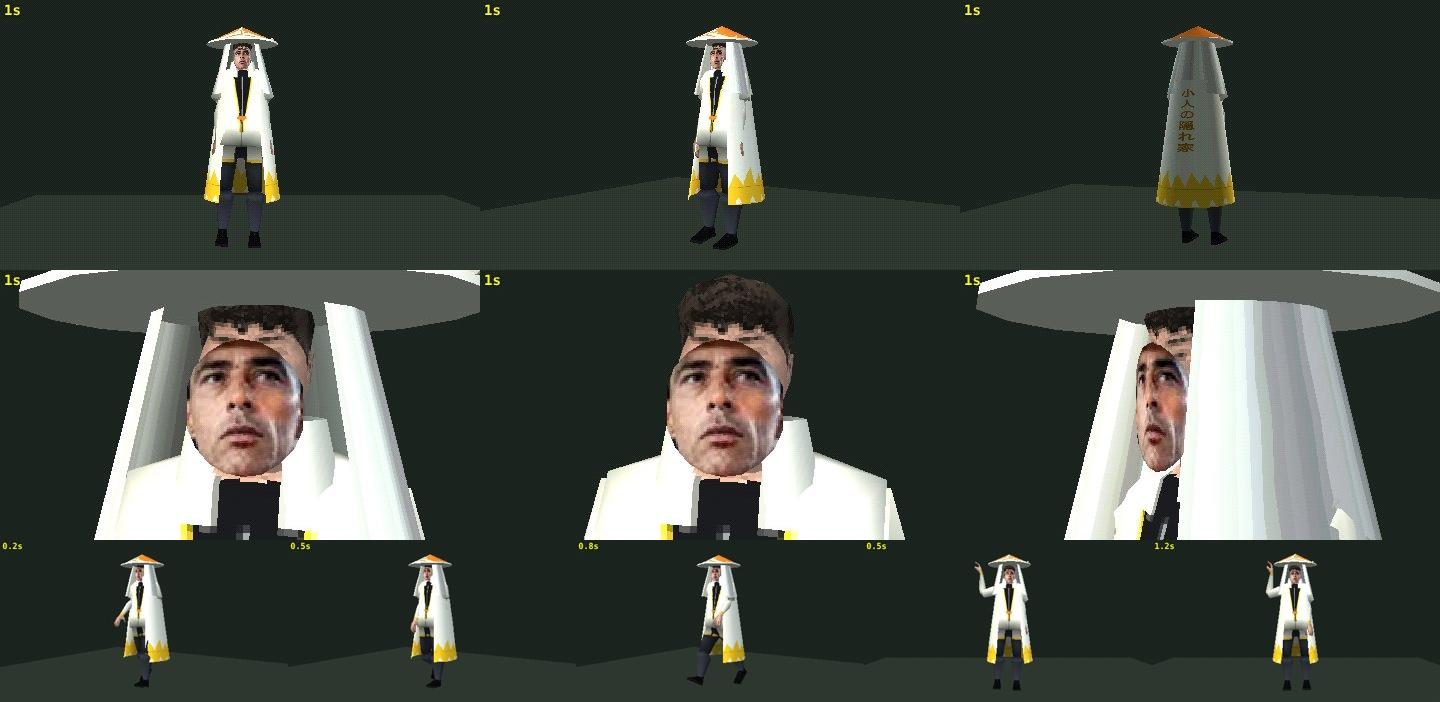
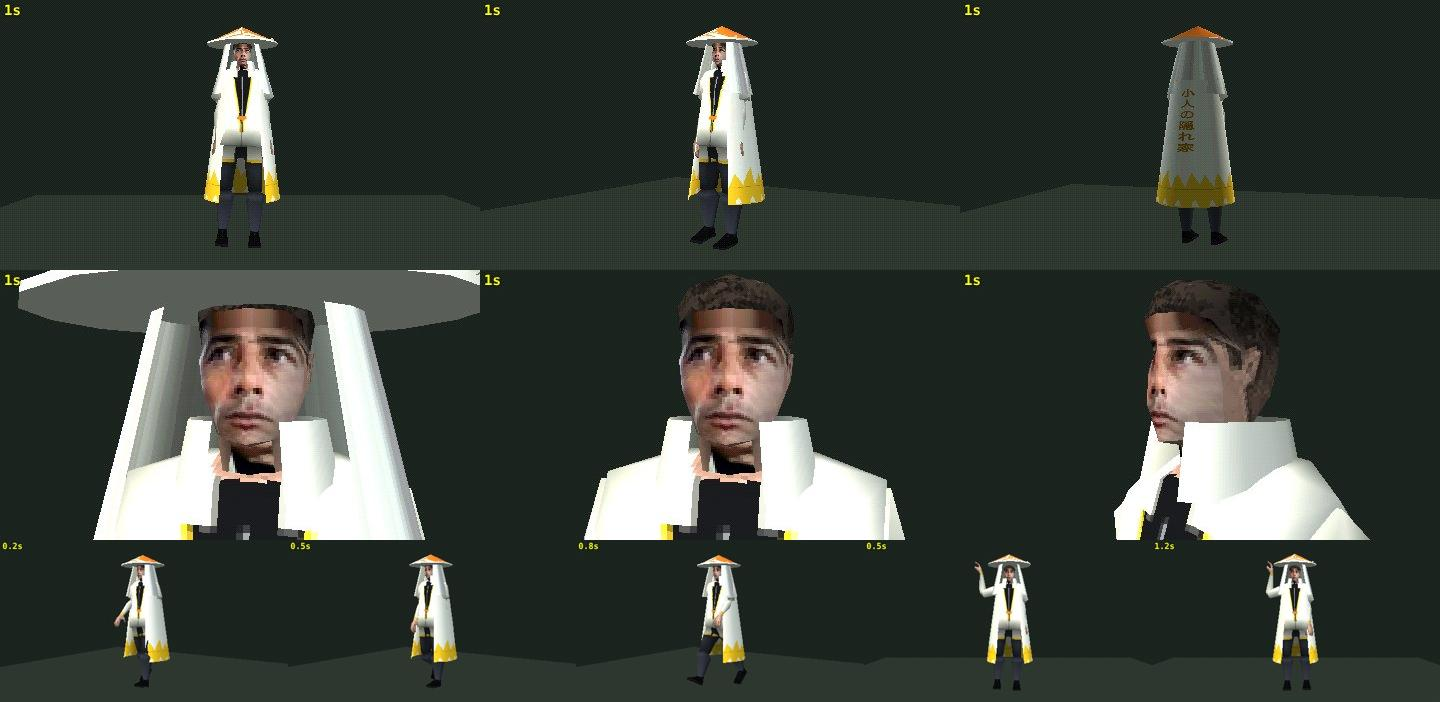
Dom: cara da cabeça do elenco trocada pela foto na própria malha (sem placa, sem vão); piscada e boca no canvas
Claude-Session: https://claude.ai/code/session_01PVUNKmUDvaP2jpRAvnz1fM

diff --git a/lib/tgp.js b/lib/tgp.js
@@ -401,7 +401,24 @@ export async function acessoriosDom(A, o = {}) {
   const cab = A.osso('spine.005'); let topo = new THREE.Box3().setFromObject(A.obj).max.y, c = cab.getWorldPosition(new THREE.Vector3());
   // "Frankenstein": a cabeça do corpo do elenco some e entra a cabeça da FOTO (a do primeiro modelo), presa ao mesmo osso
   let rosto = null;
-  const malhaCab = o.cabecaOriginal ? null : A.malhas.find(m => /head/i.test(m.name) && m.isSkinnedMesh);
+  // PADRÃO: a cara da cabeça do elenco foi trocada pela foto NA PRÓPRIA MALHA (tools/blender/rosto_foto.py: objeto "rosto", mesmas bordas
+  // da cabeça, sem vão). Aqui só liga a piscada e a boca, redesenhando a foto num canvas.
+  const malhaRosto = A.malhas.find(m => /rosto/i.test(m.name));
+  if (malhaRosto && !o.cabeca) {
+    const foto = await M.imagem('material/dom/rosto_alinhado.png'), K = .25, TW = 240, TH = 300;
+    const cv = document.createElement('canvas'); cv.width = TW; cv.height = TH; const cx = cv.getContext('2d', { willReadFrequently: true });
+    cx.filter = 'contrast(1.15) saturate(1.08)'; cx.drawImage(foto, 0, 0, TW, TH); cx.filter = 'none';
+    const base = cx.getImageData(0, 0, TW, TH); for (let i = 0; i < base.data.length; i += 4) for (let k = 0; k < 3; k++) base.data[i + k] = Math.round(Math.round(base.data[i + k] / 255 * 31) / 31 * 255);
+    cx.putImageData(base, 0, 0);
+    const tex = new THREE.CanvasTexture(cv); tex.flipY = false; tex.magFilter = tex.minFilter = THREE.NearestFilter; tex.generateMipmaps = false; tex.colorSpace = THREE.NoColorSpace;
+    const mt = [].concat(malhaRosto.material)[0]; if (mt.uniforms?.uMapa) { mt.uniforms.uMapa.value = tex; mt.uniforms.uTemMapa && (mt.uniforms.uTemMapa.value = 1); }
+    rosto = { animar: (t, { boca = 0, pisca = 0 } = {}) => {
+      cx.putImageData(base, 0, 0);
+      if (pisca > .5) for (const ex of [435, 521]) { cx.fillStyle = '#8a5f48'; cx.fillRect(Math.round((ex - 13) * K), Math.round(372 * K), Math.round(26 * K), Math.round(11 * K)); }
+      const ab = Math.round(P.clamp(boca) * 3); if (ab > 0) { cx.fillStyle = '#241210'; cx.fillRect(Math.round(456 * K), Math.round(466 * K), Math.round(34 * K), ab); }
+      tex.needsUpdate = true; } };
+  }
+  const malhaCab = (o.cabecaOriginal || (malhaRosto && !o.cabeca)) ? null : A.malhas.find(m => /head/i.test(m.name) && m.isSkinnedMesh);
   if (malhaCab) {
     malhaCab.computeBoundingBox(); const bb = malhaCab.boundingBox.clone().applyMatrix4(malhaCab.matrixWorld), cen = bb.getCenter(new THREE.Vector3()), tam = bb.getSize(new THREE.Vector3());
     // padrão (escolha do diretor): a FRENTE da cabeça do primeiro modelo (cabelo da testa + rosto da foto); da linha das orelhas pra trás

diff --git a/tools/blender/rosto_foto.py b/tools/blender/rosto_foto.py
@@ -1,0 +1,46 @@
+"""Troca a CARA da cabeça do Simple PSX Character (JashiPSX) pela foto de uma pessoa, sem placa por cima:
+a região do rosto (frente da cabeça, do queixo à testa, entre as orelhas) vira um objeto à parte ("rosto"), com o mesmo
+esqueleto, e recebe a foto projetada de frente (UV planar) num material próprio. As bordas são as mesmas da cabeça: nada de vão.
+Uso: blender -b X.blend --python rosto_foto.py -- foto_alinhada.png saida.blend
+(foto alinhada como as do pintor: olhos em y=378.5, meio do rosto em x=478 — ver tools/pintar_jashi_vasco.py PX/PY)"""
+import bpy, bmesh, sys, os
+FOTO, OUT = sys.argv[sys.argv.index('--') + 1:]
+h = bpy.data.objects['head']; mw = h.matrix_world; inv = mw.inverted()
+Z0, Z1, XM = float(os.environ.get('RZ0', '1.69')), float(os.environ.get('RZ1', '1.965')), float(os.environ.get('RXM', '0.084'))
+# 1) seleciona as faces do rosto: de frente (normal pra -y), na faixa do queixo à testa, entre as orelhas
+bpy.context.view_layer.objects.active = h
+for o in bpy.context.selected_objects: o.select_set(False)
+h.select_set(True)
+bpy.ops.object.mode_set(mode='EDIT'); bm = bmesh.from_edit_mesh(h.data); bm.faces.ensure_lookup_table()
+nm = mw.to_3x3(); n_sel = 0
+for f in bm.faces:
+    c = mw @ f.calc_center_median(); n = (nm @ f.normal).normalized()
+    f.select = (Z0 < c.z < Z1 and abs(c.x) < XM and n.y < -0.25 and c.y < -0.03)
+    n_sel += f.select
+bmesh.update_edit_mesh(h.data); print('ROSTO faces:', n_sel)
+bpy.ops.mesh.separate(type='SELECTED'); bpy.ops.object.mode_set(mode='OBJECT')
+r = [o for o in bpy.data.objects if o.name.startswith('head') and o != h][0]; r.name = 'rosto'
+# 2) UV planar de frente, mapeando a posição 3D na foto alinhada (mesma conta do pintor: CZ 1,86, ESC 0,4 → 512 px)
+PY = [(242, 10), (290, 140), (360, 180), (378.5, 215), (422.5, 280), (465, 330), (530, 385), (600, 440)]
+def interp(pts, v):
+    pts = sorted(pts, key=lambda p: p[1])
+    for a, b in zip(pts, pts[1:]):
+        if a[1] <= v <= b[1]: return a[0] + (v - a[1]) * (b[0] - a[0]) / (b[1] - a[1])
+    a, b = (pts[0], pts[1]) if v < pts[0][1] else (pts[-2], pts[-1])
+    return a[0] + (v - a[1]) * (b[0] - a[0]) / (b[1] - a[1])
+img = bpy.data.images.load(os.path.abspath(FOTO)); img.pack(); FW, FH = img.size
+KX = float(os.environ.get('RKX', '0.92'))
+me = r.data; mwr = r.matrix_world; uvl = me.uv_layers.active
+for poly in me.polygons:
+    for li in poly.loop_indices:
+        w = mwr @ me.vertices[me.loops[li].vertex_index].co
+        mx = w.x / 0.4 * 512 + 256; my = (1.86 - w.z) / 0.4 * 512 + 256
+        fx = 478 - (mx - 256) * KX * 1.0      # x do modelo (+ = lado esquerdo do personagem) → foto (espelhado: a foto está de frente)
+        fy = max(float(os.environ.get('RFYMIN', '0')), interp(PY, my))   # trava acima: a testa repete a pele (não pega a aba do chapéu da foto)
+        uvl.data[li].uv = (fx / FW, 1 - fy / FH)
+# 3) material próprio com a foto (pixel duro, estilo PS1)
+mat = bpy.data.materials.new('rosto_foto'); mat.use_nodes = True
+nt = mat.node_tree; bsdf = nt.nodes.get('Principled BSDF'); tx = nt.nodes.new('ShaderNodeTexImage'); tx.image = img; tx.interpolation = 'Closest'
+nt.links.new(tx.outputs['Color'], bsdf.inputs['Base Color']); nt.nodes.active = tx
+me.materials.clear(); me.materials.append(mat)
+bpy.ops.wm.save_as_mainfile(filepath=os.path.abspath(OUT)); print('ROSTO OK', OUT)

diff --git a/material/producao/personagens/dom/LEIA.md b/material/producao/personagens/dom/LEIA.md
@@ -4,13 +4,14 @@
 - Textura: `ROUPA=dom CAB=40,34,30 CONTRASTE=1.3 QUENTE=1.0,0.95,0.9 python3 tools/pintar_jashi_vasco.py tris.json character_256.png material/dom/rosto_alinhado_olhos.png texturas/dom_512.png`
   (tris.json: todos os triângulos do modelo base com objeto e material, exportados pelo Blender).
   Casaco branco de manga comprida aberto em V, blusa preta de zíper, fivela laranja, gola alta, calça escura, sapato preto.
-- Montagem e animação: `ROSTO_PLANO=-0.10 CALCA=1 blender ... montar_jashi.py -- texturas/dom_512.png dom.blend` → `animar_jashi.py` → `exportar_glb.py`
+- Montagem e animação: `ROSTO_PLANO=-0.10 CALCA=1 blender ... montar_jashi.py -- texturas/dom_512.png dom.blend` → `rosto_foto.py` → `animar_jashi.py` → `exportar_glb.py`
   (10 animações: idle walk run talk wave sit cower attack hit death). Arquivo 3D fora do git (licença do JashiPSX).
-- "Frankenstein" (escolha do diretor): corpo, roupa, animações e cabeça (cabelo, orelhas, nuca) do modelo do elenco; o ROSTO é uma placa
-  quase plana e oval (estilo PS1, como as caras chapadas dos jogos de terror) com a foto recortada justa da testa ao queixo
-  (`T.rostoPlanoDom()`, foto alinhada `material/dom/rosto_alinhado.png`), encostada na frente da cabeça, presa ao osso da cabeça.
-  A cabeça do elenco é montada com o rosto achatado (`ROSTO_PLANO=-0.10` no montar_jashi.py: sem nariz) e a frente só com pele (`ROSTO_LISO=1`).
-  Folha: `?semveu=1` · `?cabeca=meia|inteira|mascara|elenco` (versões anteriores) · ajuste `&esc=&dz=`.
+- Rosto (escolha do diretor): a CARA da cabeça do elenco foi trocada pela foto NA PRÓPRIA MALHA — sem placa por cima, sem vão:
+  `RZ1=1.965 RKX=0.8 RFYMIN=334 blender -b dom.blend --python tools/blender/rosto_foto.py -- material/dom/rosto_alinhado.png dom.blend`
+  (separa as faces da frente da cabeça, do queixo à testa e entre as orelhas, num objeto "rosto" com o mesmo esqueleto; UV planar de frente
+  na foto alinhada; a testa trava abaixo da aba do chapéu da foto). Rodar depois do montar_jashi.py (com `ROSTO_PLANO=-0.10`: frente sem nariz)
+  e antes do animar_jashi.py. Cabelo, orelhas e nuca são do modelo do elenco. Piscada e boca: `acessoriosDom` redesenha a foto num canvas.
+  Versões anteriores na folha: `?cabeca=plano|meia|inteira|mascara|elenco` (· `?semveu=1` pra ver a cabeça sem chapéu/véu/capa).
 - Detalhes amarelos na roupa: debrum da abertura do casaco, punhos e barra.
 - Capa de Hokage (`acessoriosDom`): branca, chamas amarelas na barra, "小人の隠れ家" (kobito no kakurega, "o esconderijo/toca do anão") na vertical
   nas costas (fonte IPAGothic), gola alta; presa ao tronco (spine.003).
